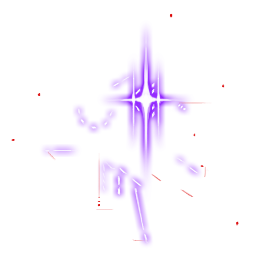
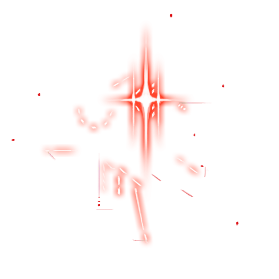
修复覆盖发光层 BoxUtil 实体不渲染 + 相位紫色星芒换红
问题定位：
- ShipGlowRenderer/GravityPhaseVisualEffect 创建的 SpriteEntity 未灌实例数据，
  BoxUtil BaseInstanceRenderData.glDraw 按 min(validInstanceDataCount,
  renderingCount) 绘制，无实例数据即 0，导致 bloom 覆盖层与相位描边完全不渲染。
- 相位期间看到的紫色星芒并非装饰武器或 BoxUtil 实体，而是原版相位斗篷自带的
  phaseHighlight/phaseDiffuse 渲染路径（obf PhaseCloakSystem.render，additive +
  jitter），完全绕过武器渲染，压武器 sprite 颜色对其无效。

修复：
- ShipGlowRenderer.createEntity 与 GravityPhaseVisualEffect.createOutlineEntity
  改为 FIXED_2D 单实例渲染（镜像 Xc001EmissiveOverlayEffect 的灌实例流程），
  创建后校验 haveValidInstanceData/validInstanceDataCount，失败记 WARN 并 delete。
- 引力相位 glow1/glow2 贴图（zw_002/zw_103）替换为 bloom 红色变体，
  effectColor1/2 由紫调整为淡红/红，相位星芒与描边/bloom 红化观感统一。
- 清理诊断日志与 renderingCount=0 实验代码（该实验会把实体从渲染列表移除）。

实机验证：lens_grav_rift_zw103 相位定格帧星芒为红色系、红色描边可见；
xc_001_aod7_basic 舱口发光环等 bloom 特征正常渲染，日志无告警。

diff --git a/modules/internal/astd-combat/src/main/kotlin/cn/kasuminova/astd/renderer/effect/system/ShipGlowRenderer.kt b/modules/internal/astd-combat/src/main/kotlin/cn/kasuminova/astd/renderer/effect/system/ShipGlowRenderer.kt
@@ -9,6 +9,11 @@ import com.fs.starfarer.api.combat.CombatEngineLayers
 import com.fs.starfarer.api.combat.ShipAPI
 import com.fs.starfarer.api.combat.WeaponAPI
 import com.fs.starfarer.api.input.InputEventAPI
+import org.boxutil.base.api.InstanceDataAPI
+import org.boxutil.base.api.InstanceRenderAPI
+import org.boxutil.define.BoxEnum
+import org.boxutil.define.InstanceType
+import org.boxutil.units.standard.attribute.Instance2Data
 import org.boxutil.units.standard.entity.SpriteEntity
 import org.lwjgl.util.vector.Vector2f
 import java.awt.Color
@@ -40,7 +45,7 @@ internal object ShipGlowRenderer {
 
     private const val ENGINE_KEY = "astd_ship_glow_renderer"
 
-    /** 常驻实体时长（秒）：生命周期由舰船状态显式驱动，不自然到期。 */
+    /** 常驻实体实例满亮相时长（秒）：生命周期由舰船状态显式驱动，不自然到期。 */
     private const val FULL_SECONDS = 1e7f
 
     /** 覆盖层贴图路径前缀（ASTD 舰体覆盖层约定放在 ships 目录）。 */
@@ -164,6 +169,8 @@ internal object ShipGlowRenderer {
                 return
             }
             attachments[key] = attachment
+            log.info("[ASTD] 舰船覆盖发光层实体已创建：ship=${ship.hullSpec?.hullId} weapon=${attachment.weaponId} " +
+                "size=${ship.spriteAPI?.width}x${ship.spriteAPI?.height} tex=${attachment.base.materialData.diffuse?.textureId}")
         }
 
         fun setRecolor(ship: ShipAPI, blend: Float) {
@@ -192,10 +199,9 @@ internal object ShipGlowRenderer {
 
         private fun createEntity(ship: ShipAPI, path: String): SpriteEntity? {
             if (path !in loadedPaths) return null
-            val sprite = Global.getSettings().getSprite(path)
+            val shipSprite = ship.spriteAPI ?: return null
             val entity = try {
-                // diffuse+emissive 同贴图（TriShard/Bolt 已验证路径）
-                SpriteEntity(sprite, true)
+                SpriteEntity(path)
             } catch (t: Throwable) {
                 log.warn("[ASTD] 舰船覆盖发光层渲染器：实体创建失败 $path（ship=${ship.hullSpec?.hullId}）", t)
                 return null
@@ -203,15 +209,19 @@ internal object ShipGlowRenderer {
             try {
                 entity.setLayer(CombatEngineLayers.ABOVE_SHIPS_LAYER)
                 entity.setAdditiveBlend()
-                val shipSprite = ship.spriteAPI
                 entity.setBaseSizePerTiles(shipSprite.width / 2f, shipSprite.height / 2f)
-                entity.setEmissiveSprite(sprite)
-                entity.materialData.setColor(Color.WHITE)
-                entity.materialData.setEmissiveColor(Color.WHITE)
-                entity.materialData.setGlowPower(1f)
-                entity.setGlobalTimer(0f, FULL_SECONDS, 0f)
-                entity.materialData.setColorAlpha(0f)
-                entity.materialData.setEmissiveColorAlpha(0f)
+                entity.materialData.setColor(1f, 1f, 1f, 0f)
+                entity.materialData.emissive = entity.materialData.diffuse
+                entity.materialData.setEmissiveColor(1f, 1f, 1f, 0f)
+                entity.materialData.glowPower = 0.5f
+
+                // SpriteEntity 走实例化渲染：无实例数据时 glDraw 绘制 0 个实例（什么都不画），
+                // 必须灌一个 FIXED 单实例（实体本体承载位置/朝向/尺寸，实例锚原点单位缩放）。
+                if (!initFixedOneInstance(entity)) {
+                    log.warn("[ASTD] 舰船覆盖发光层渲染器：实例初始化失败（ship=${ship.hullSpec?.hullId}），覆盖层视觉缺席")
+                    entity.delete()
+                    return null
+                }
 
                 val state = BoxUtilCombatVfx.addEntity(engine, entity)
                 if (state != 0) {
@@ -225,6 +235,44 @@ internal object ShipGlowRenderer {
                 return null
             }
             return entity
+        }
+
+        /**
+         * 灌入一个常驻 FIXED_2D 实例（镜像 Xc001EmissiveOverlayEffect 的已验证路径）：
+         * 实例位置/朝向归零、单位缩放（由实体本体的 setStateVanilla/setBaseSizePerTiles 承载），
+         * 满亮相 timer 由 setInstanceTimerOverride 钉住，任何一步失败返回 false（覆盖层缺席，禁兜底）。
+         */
+        private fun initFixedOneInstance(entity: InstanceRenderAPI): Boolean {
+            val inst = Instance2Data().apply {
+                setLocation(0f, 0f)
+                setFacing(0f)
+                setTurnRate(0f)
+                setScale(1f, 1f)
+                setTimer(0f, FULL_SECONDS, 0f)
+                setColor(255, 255, 255, 255)
+                setEmissiveColor(255, 255, 255, 255)
+                setFixedInstanceAlpha(1f, BoxEnum.TIMER_FULL)
+            }
+
+            val dataList: MutableList<InstanceDataAPI> = mutableListOf(inst)
+            if (entity.setInstanceData(dataList, 0f, FULL_SECONDS, 0f) != BoxEnum.STATE_SUCCESS) return false
+
+            entity.renderingCount = 1
+            entity.instanceDataRefreshIndex = 0
+            entity.instanceDataRefreshSize = 1
+            entity.setInstanceTimerOverride(1f, BoxEnum.TIMER_FULL)
+
+            val memory = entity.instanceDataMemory
+            if (memory == null || !memory.is_type_fixed) {
+                entity.mallocInstance(InstanceType.FIXED_2D, 1)
+                entity.instanceDataRefreshOffset = 0
+                entity.setInstanceDataRefreshAllFromCurrentIndex()
+            }
+            val after = entity.instanceDataMemory
+            if (after == null || !after.is_type_fixed) return false
+
+            entity.submitInstance()
+            return entity.haveValidInstanceData() && entity.validInstanceDataCount >= 1
         }
 
         override fun advance(amount: Float, events: MutableList<InputEventAPI>?) {
@@ -258,6 +306,9 @@ internal object ShipGlowRenderer {
                 val redPath = redVariantPaths[att.weaponId]
                 if (redPath != null) {
                     att.recolor = createEntity(ship, redPath)
+                    if (att.recolor != null) {
+                        log.info("[ASTD] 舰船覆盖发光层换色实体已创建：ship=${ship.hullSpec?.hullId} path=$redPath")
+                    }
                 } else if (missingRecolorWarned.add(att.weaponId)) {
                     log.warn("[ASTD] 舰船覆盖发光层渲染器：${att.weaponId} 无红色变体预载，相位换色缺席")
                 }

diff --git a/modules/internal/astd-combat/src/main/kotlin/cn/kasuminova/astd/renderer/effect/system/GravityPhaseVisualEffect.kt b/modules/internal/astd-combat/src/main/kotlin/cn/kasuminova/astd/renderer/effect/system/GravityPhaseVisualEffect.kt
@@ -8,6 +8,11 @@ import com.fs.starfarer.api.combat.CombatEngineAPI
 import com.fs.starfarer.api.combat.CombatEngineLayers
 import com.fs.starfarer.api.combat.ShipAPI
 import com.fs.starfarer.api.input.InputEventAPI
+import org.boxutil.base.api.InstanceDataAPI
+import org.boxutil.base.api.InstanceRenderAPI
+import org.boxutil.define.BoxEnum
+import org.boxutil.define.InstanceType
+import org.boxutil.units.standard.attribute.Instance2Data
 import org.boxutil.units.standard.entity.SpriteEntity
 import org.boxutil.util.ShaderUtil
 import org.lwjgl.opengl.GL11
@@ -245,9 +250,11 @@ internal object GravityPhaseVisualEffect {
                 null
             } ?: run {
                 failedShips += key
+                log.info("[ASTD] 引力相位辉光：附件未创建（ship=${ship.hullSpec?.hullId}，描边纹理缺失或实体创建失败）")
                 return
             }
             attachments[key] = attachment
+            log.info("[ASTD] 引力相位辉光实体已创建：ship=${ship.hullSpec?.hullId}")
         }
 
         private fun createAttachment(ship: ShipAPI): Attachment? {
@@ -287,9 +294,16 @@ internal object GravityPhaseVisualEffect {
                 glow.materialData.setColor(OUTLINE_COLOR)
                 glow.materialData.setEmissiveColor(OUTLINE_COLOR)
                 glow.materialData.setGlowPower(1.2f)
-                glow.setGlobalTimer(0f, GLOW_FULL_SECONDS, 0f)
                 glow.materialData.setColorAlpha(0f)
                 glow.materialData.setEmissiveColorAlpha(0f)
+
+                // SpriteEntity 走实例化渲染：无实例数据时 glDraw 绘制 0 个实例（什么都不画），
+                // 必须灌一个 FIXED 单实例（实体本体承载位置/朝向/尺寸，实例锚原点单位缩放）。
+                if (!initFixedOneInstance(glow)) {
+                    log.warn("[ASTD] 引力相位辉光：实例初始化失败（ship=${ship.hullSpec?.hullId}），描边视觉缺席")
+                    glow.delete()
+                    return null
+                }
             } catch (t: Throwable) {
                 log.warn("[ASTD] 引力相位辉光：实体配置失败（ship=${ship.hullSpec?.hullId}）", t)
                 glow.delete()
@@ -303,6 +317,44 @@ internal object GravityPhaseVisualEffect {
                 return null
             }
             return glow
+        }
+
+        /**
+         * 灌入一个常驻 FIXED_2D 实例（镜像 Xc001EmissiveOverlayEffect 的已验证路径）：
+         * 实例位置/朝向归零、单位缩放（由实体本体的 setStateVanilla/setBaseSizePerTiles 承载），
+         * 满亮相 timer 由 setInstanceTimerOverride 钉住，任何一步失败返回 false（描边视觉缺席，禁兜底）。
+         */
+        private fun initFixedOneInstance(entity: InstanceRenderAPI): Boolean {
+            val inst = Instance2Data().apply {
+                setLocation(0f, 0f)
+                setFacing(0f)
+                setTurnRate(0f)
+                setScale(1f, 1f)
+                setTimer(0f, GLOW_FULL_SECONDS, 0f)
+                setColor(255, 255, 255, 255)
+                setEmissiveColor(255, 255, 255, 255)
+                setFixedInstanceAlpha(1f, BoxEnum.TIMER_FULL)
+            }
+
+            val dataList: MutableList<InstanceDataAPI> = mutableListOf(inst)
+            if (entity.setInstanceData(dataList, 0f, GLOW_FULL_SECONDS, 0f) != BoxEnum.STATE_SUCCESS) return false
+
+            entity.renderingCount = 1
+            entity.instanceDataRefreshIndex = 0
+            entity.instanceDataRefreshSize = 1
+            entity.setInstanceTimerOverride(1f, BoxEnum.TIMER_FULL)
+
+            val memory = entity.instanceDataMemory
+            if (memory == null || !memory.is_type_fixed) {
+                entity.mallocInstance(InstanceType.FIXED_2D, 1)
+                entity.instanceDataRefreshOffset = 0
+                entity.setInstanceDataRefreshAllFromCurrentIndex()
+            }
+            val after = entity.instanceDataMemory
+            if (after == null || !after.is_type_fixed) return false
+
+            entity.submitInstance()
+            return entity.haveValidInstanceData() && entity.validInstanceDataCount >= 1
         }
 
         override fun advance(amount: Float, events: MutableList<InputEventAPI>?) {

diff --git a/modules/internal/astd-combat/src/main/kotlin/cn/kasuminova/astd/renderer/effect/system/ASTDShipGlowEffect.kt b/modules/internal/astd-combat/src/main/kotlin/cn/kasuminova/astd/renderer/effect/system/ASTDShipGlowEffect.kt
@@ -9,7 +9,8 @@ import java.awt.Color
 
 /**
  * ASTD 舰船覆盖发光层（bloom / 装饰灯）装饰武器的 everyFrameEffect：
- * 战斗内禁用原版装饰武器渲染（sprite/animation alpha 压 0，暂停帧也压住——
+ * 战斗内禁用原版装饰武器渲染（sprite 颜色 alpha 压 0——非动画武器的 render 每帧
+ * 覆写 alphaMult，压颜色才有效；animation alphaMult 同步压 0，暂停帧也压住——
  * 定格取景依赖），画面由 [ShipGlowRenderer] 的 BoxUtil 实体完全接管；
  * 装配界面不运行本 effect，仍走原版静态渲染。
  */
@@ -41,11 +42,16 @@ class ASTDShipGlowEffect : EveryFrameWeaponEffectPlugin {
         // 渲染器未安装（初始化失败）时不压制原版渲染，保留装饰层可见
         if (!ShipGlowRenderer.isReady(engine)) return
 
-        // 禁用原版装饰武器渲染
+        // 禁用原版装饰武器渲染：非动画武器的 render 每帧以舰船 alpha 覆写
+        // sprite.alphaMult（obf MissileWeapon.render），压 alphaMult 无效，
+        // 必须压颜色 alpha（render 不触碰 color）
         try {
-            weapon.sprite?.alphaMult = 0f
+            val sprite = weapon.sprite
+            if (sprite != null && sprite.color.alpha != 0) {
+                sprite.color = Color(sprite.color.red, sprite.color.green, sprite.color.blue, 0)
+            }
         } catch (t: Throwable) {
-            warnOnce("sprite.alphaMult", t)
+            warnOnce("sprite.color", t)
         }
         try {
             weapon.animation?.alphaMult = 0f
